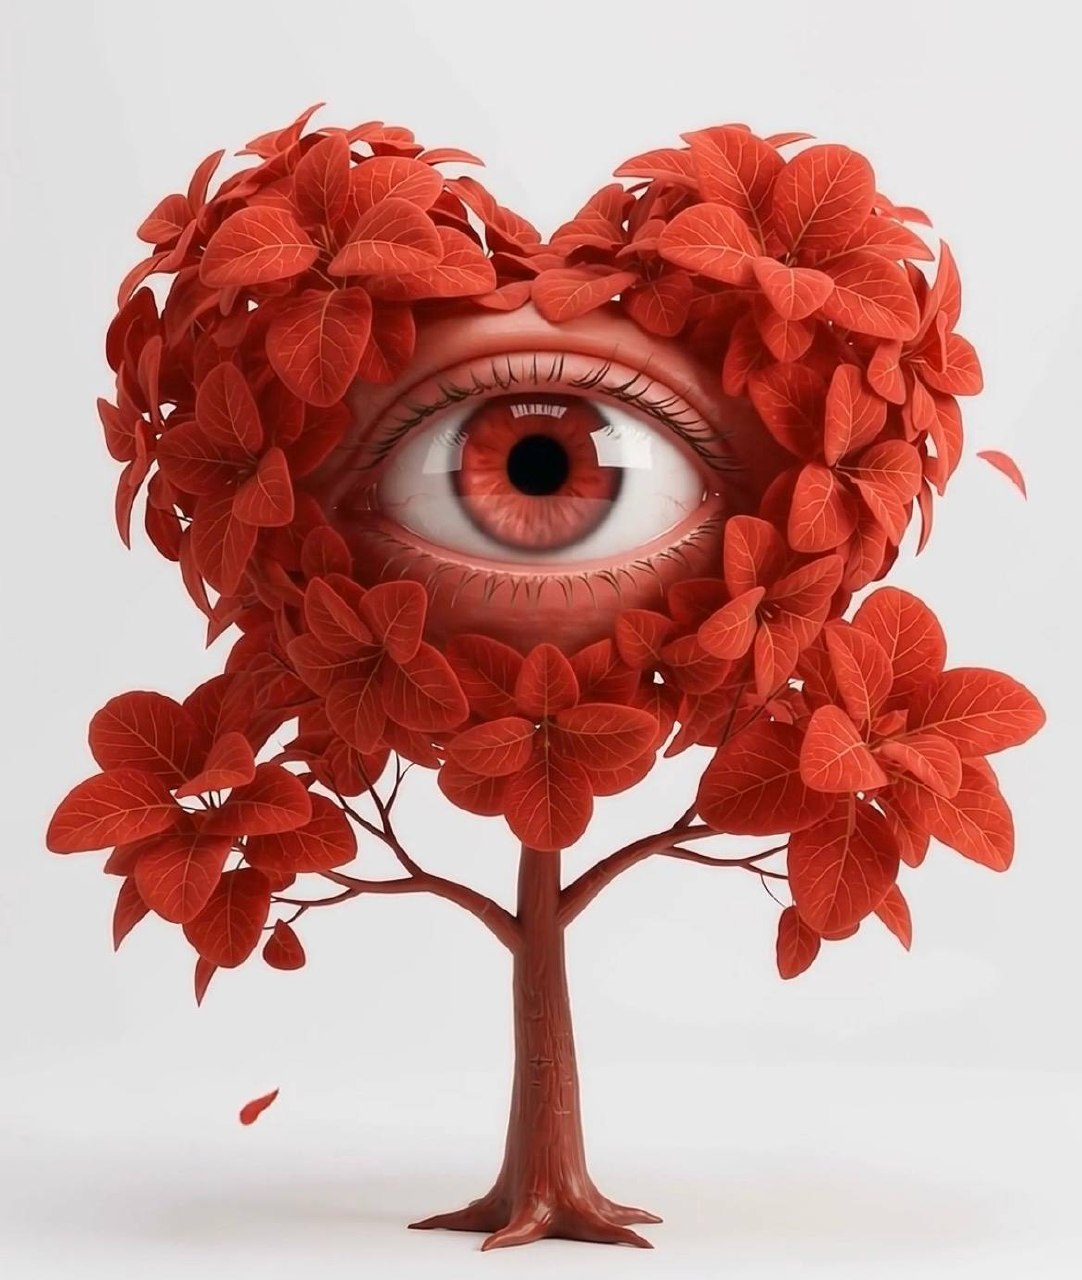
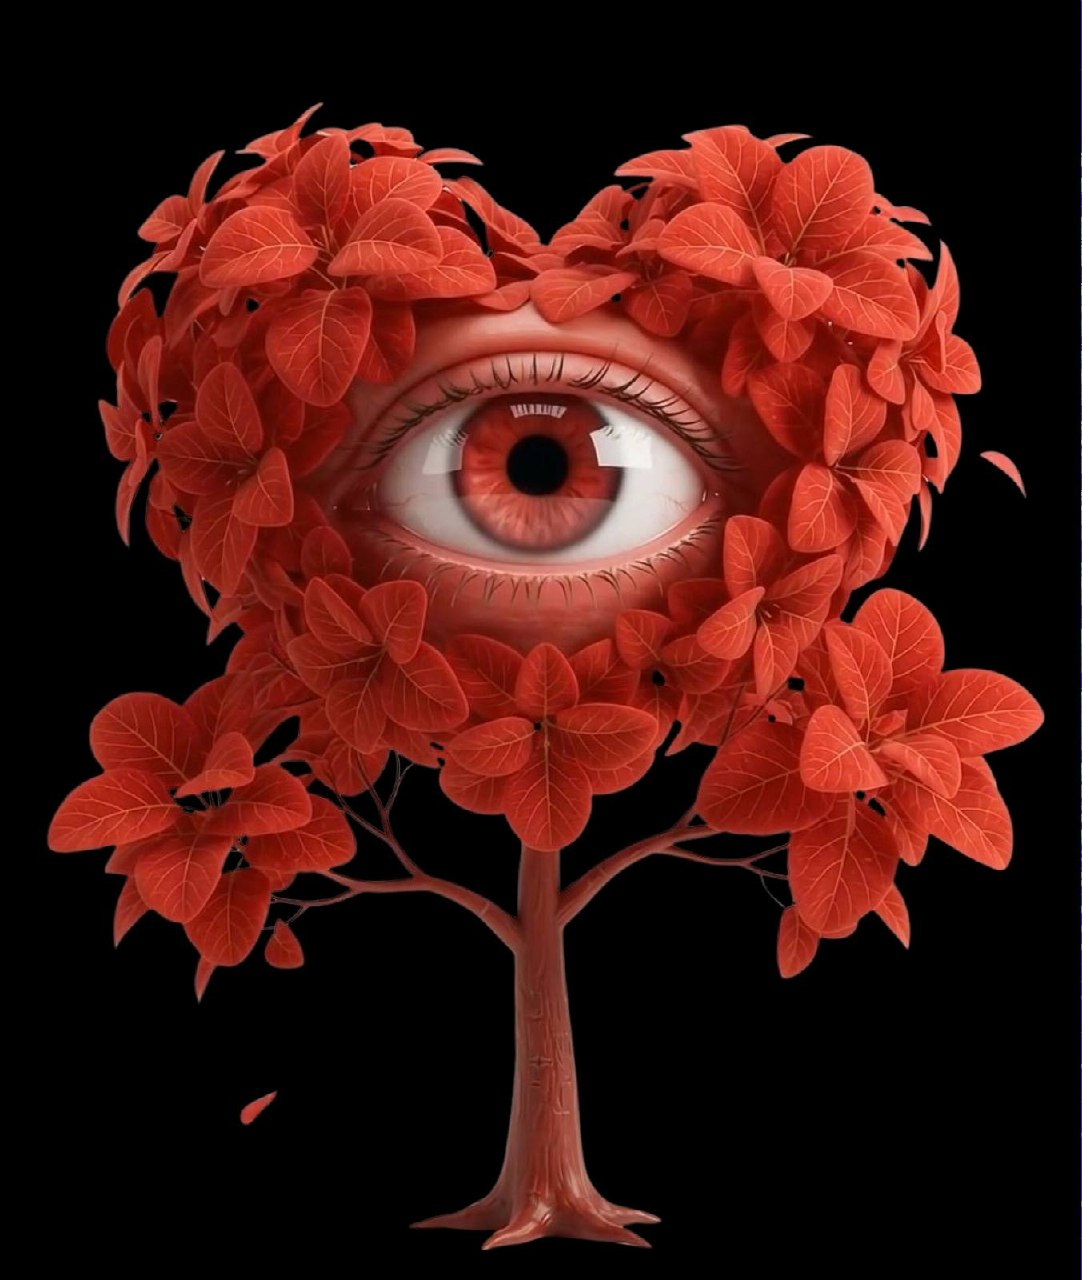
Add dedicated notification delivery route

diff --git a/supabase/functions/send-notifications/index.ts b/supabase/functions/send-notifications/index.ts
@@ -312,7 +312,7 @@ async function processMeditation(enrollment: ProgramEnrollmentRow, moment: Medit
   await sendToActiveDevices(enrollment, inserted.id, {
     title: meditationTitles[moment],
     body: `Tu práctica del Día ${enrollment.current_day} está lista.`,
-    url: `/?delivery=${inserted.id}`,
+    url: `/delivery/${inserted.id}`,
     data: { type: deliveryType, day: enrollment.current_day },
   });
 
@@ -348,7 +348,7 @@ async function processIntermediateMessage(enrollment: ProgramEnrollmentRow, mess
   await sendToActiveDevices(enrollment, inserted.id, {
     title: 'Un momento para vos',
     body: messageText.split('\n')[0],
-    url: `/?delivery=${inserted.id}`,
+    url: `/delivery/${inserted.id}`,
     data: { type: 'intermediate_message', day: enrollment.current_day, index: messageIndex },
   });
 }
@@ -422,7 +422,7 @@ async function retrySingleDelivery(subscriptionId: string, deliveryId: string) {
   const payload = {
     title: moment ? meditationTitles[moment] : 'Un momento para vos',
     body: body.split('\n')[0],
-    url: `/?delivery=${delivery.id}`,
+    url: `/delivery/${delivery.id}`,
     data: { type: deliveryType, day: delivery.day_number, retry: true },
   };
 

diff --git a/public/sw.js b/public/sw.js
@@ -28,7 +28,11 @@ self.addEventListener('push', (event) => {
 
 self.addEventListener('notificationclick', (event) => {
   event.notification.close();
-  const target = new URL(event.notification.data?.url || '/', self.location.origin);
+  const rawTarget = new URL(event.notification.data?.url || '/', self.location.origin);
+  const deliveryMatch = rawTarget.pathname.match(/^\/delivery\/([^/]+)$/);
+  const target = deliveryMatch
+    ? new URL(`/?delivery=${encodeURIComponent(decodeURIComponent(deliveryMatch[1]))}`, self.location.origin)
+    : rawTarget;
   target.searchParams.set('push', Date.now().toString());
   event.waitUntil(clients.matchAll({ type: 'window', includeUncontrolled: true }).then(async (windows) => {
     await caches.delete(LAST_PUSH_CACHE);

diff --git a/app/components/pricing-screen.tsx b/app/components/pricing-screen.tsx
@@ -42,7 +42,7 @@ export function PricingScreen() {
   return <main className="payment-screen"><div className="payment-shell">
     <header className="payment-hero">
       <a className="payment-close" href="/" aria-label="Cerrar"><X size={22} /></a>
-      <img className="payment-tree" src="/images/paywall-tree-eye-black.png" alt="El Club de la Imaginación" />
+      <img className="payment-tree" src="/images/paywall-tree-eye.png" alt="El Club de la Imaginación" />
       <div className="payment-hero-copy">
         <h1>Todo el Club.<br/><em>Todos los días.</em></h1>
         <p>Tu asistente, talleres en vivo, biblioteca, meditaciones y acompañamiento diario.</p>

diff --git a/app/components/payments.css b/app/components/payments.css
@@ -23,3 +23,6 @@
 
 /* Hero logo asset already has a true black background; keep it centered and seamless. */
 .payment-tree{object-fit:cover;object-position:50% 38%;background:#050506}
+
+/* Keep payment CTAs visibly red even while provider configuration is pending. */
+.payment-provider,.payment-provider:disabled,.payment-provider--mp,.payment-provider--paypal{background:#ef2636!important;color:#fff!important;border:0!important;opacity:1;box-shadow:0 8px 20px rgba(239,38,54,.24),0 5px 14px rgba(0,0,0,.30)!important}

diff --git a/app/delivery/[id]/page.tsx b/app/delivery/[id]/page.tsx
@@ -1,0 +1,6 @@
+import { redirect } from 'next/navigation';
+
+export default async function DeliveryEntry({ params }: { params: Promise<{ id: string }> }) {
+  const { id } = await params;
+  redirect(`/?delivery=${encodeURIComponent(id)}`);
+}
